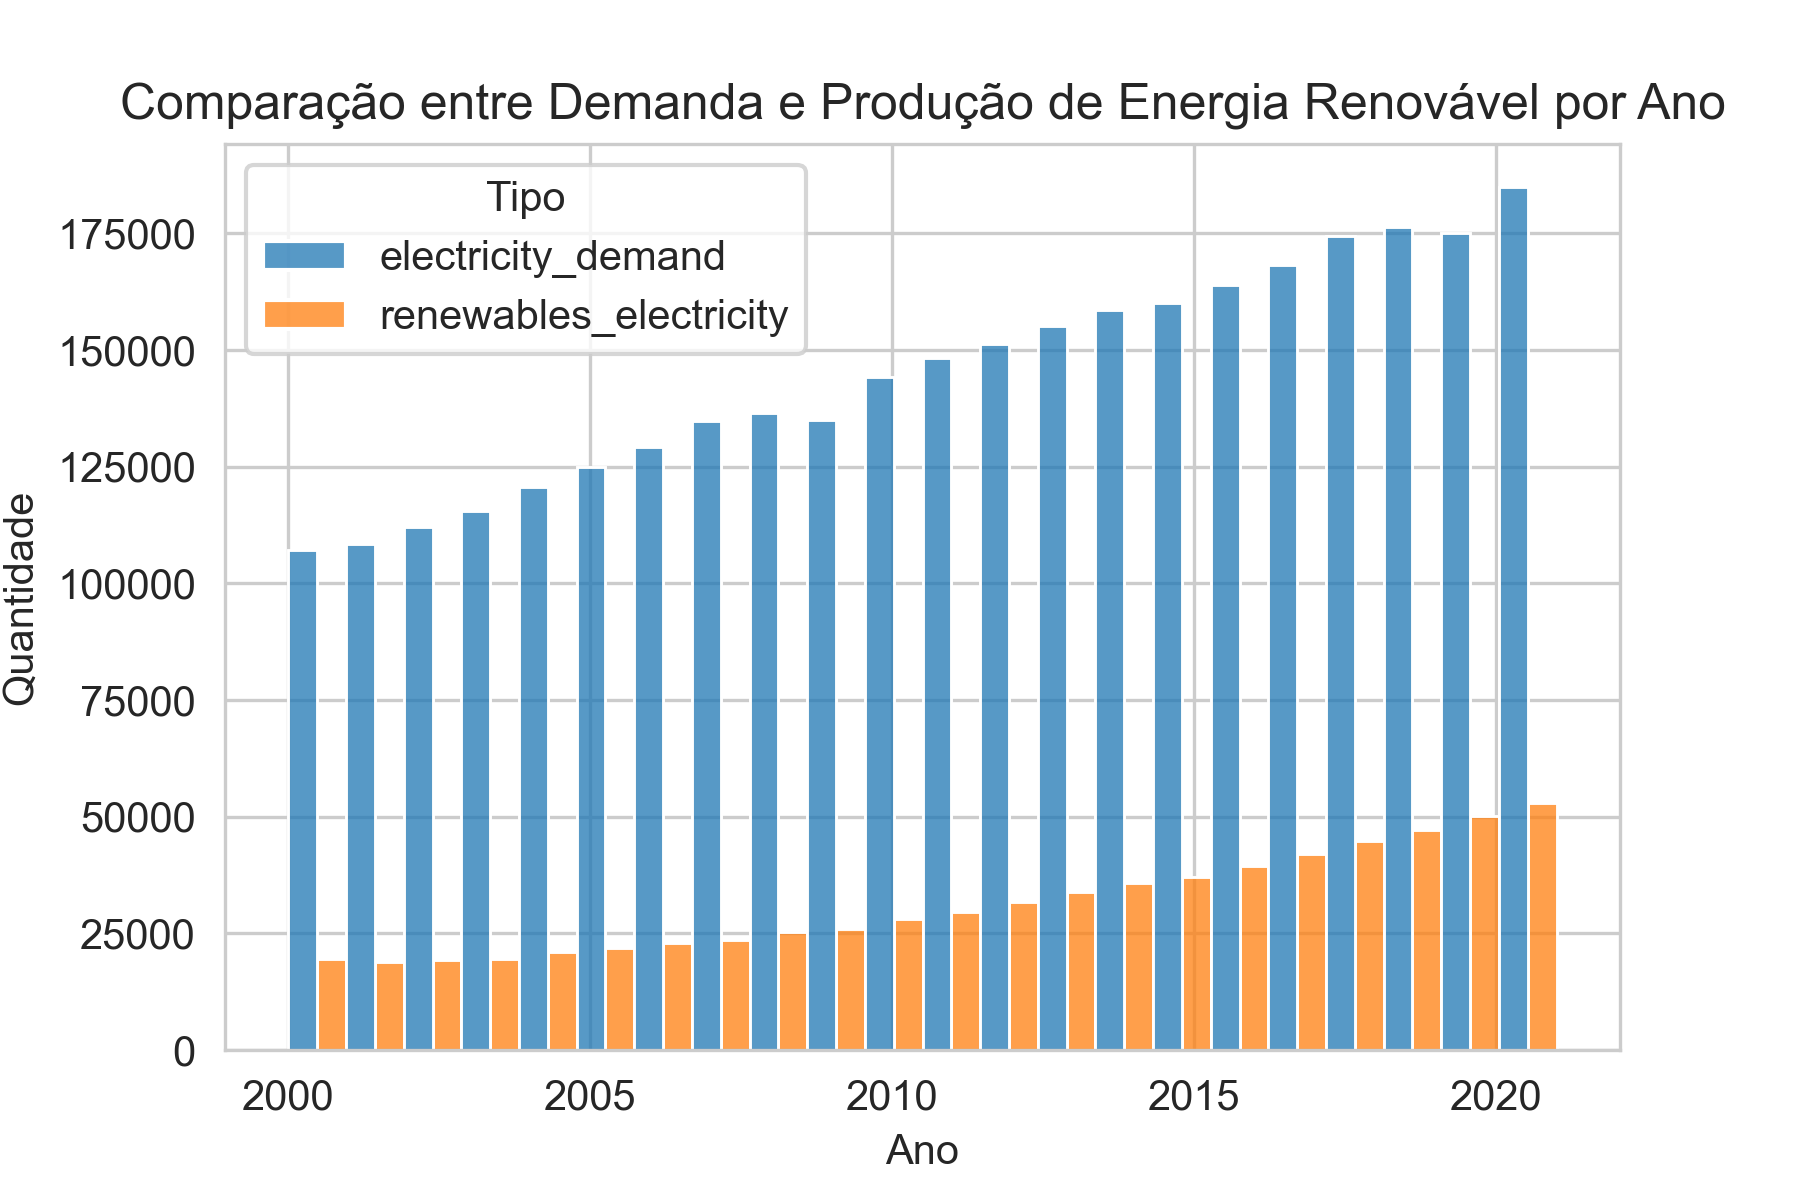
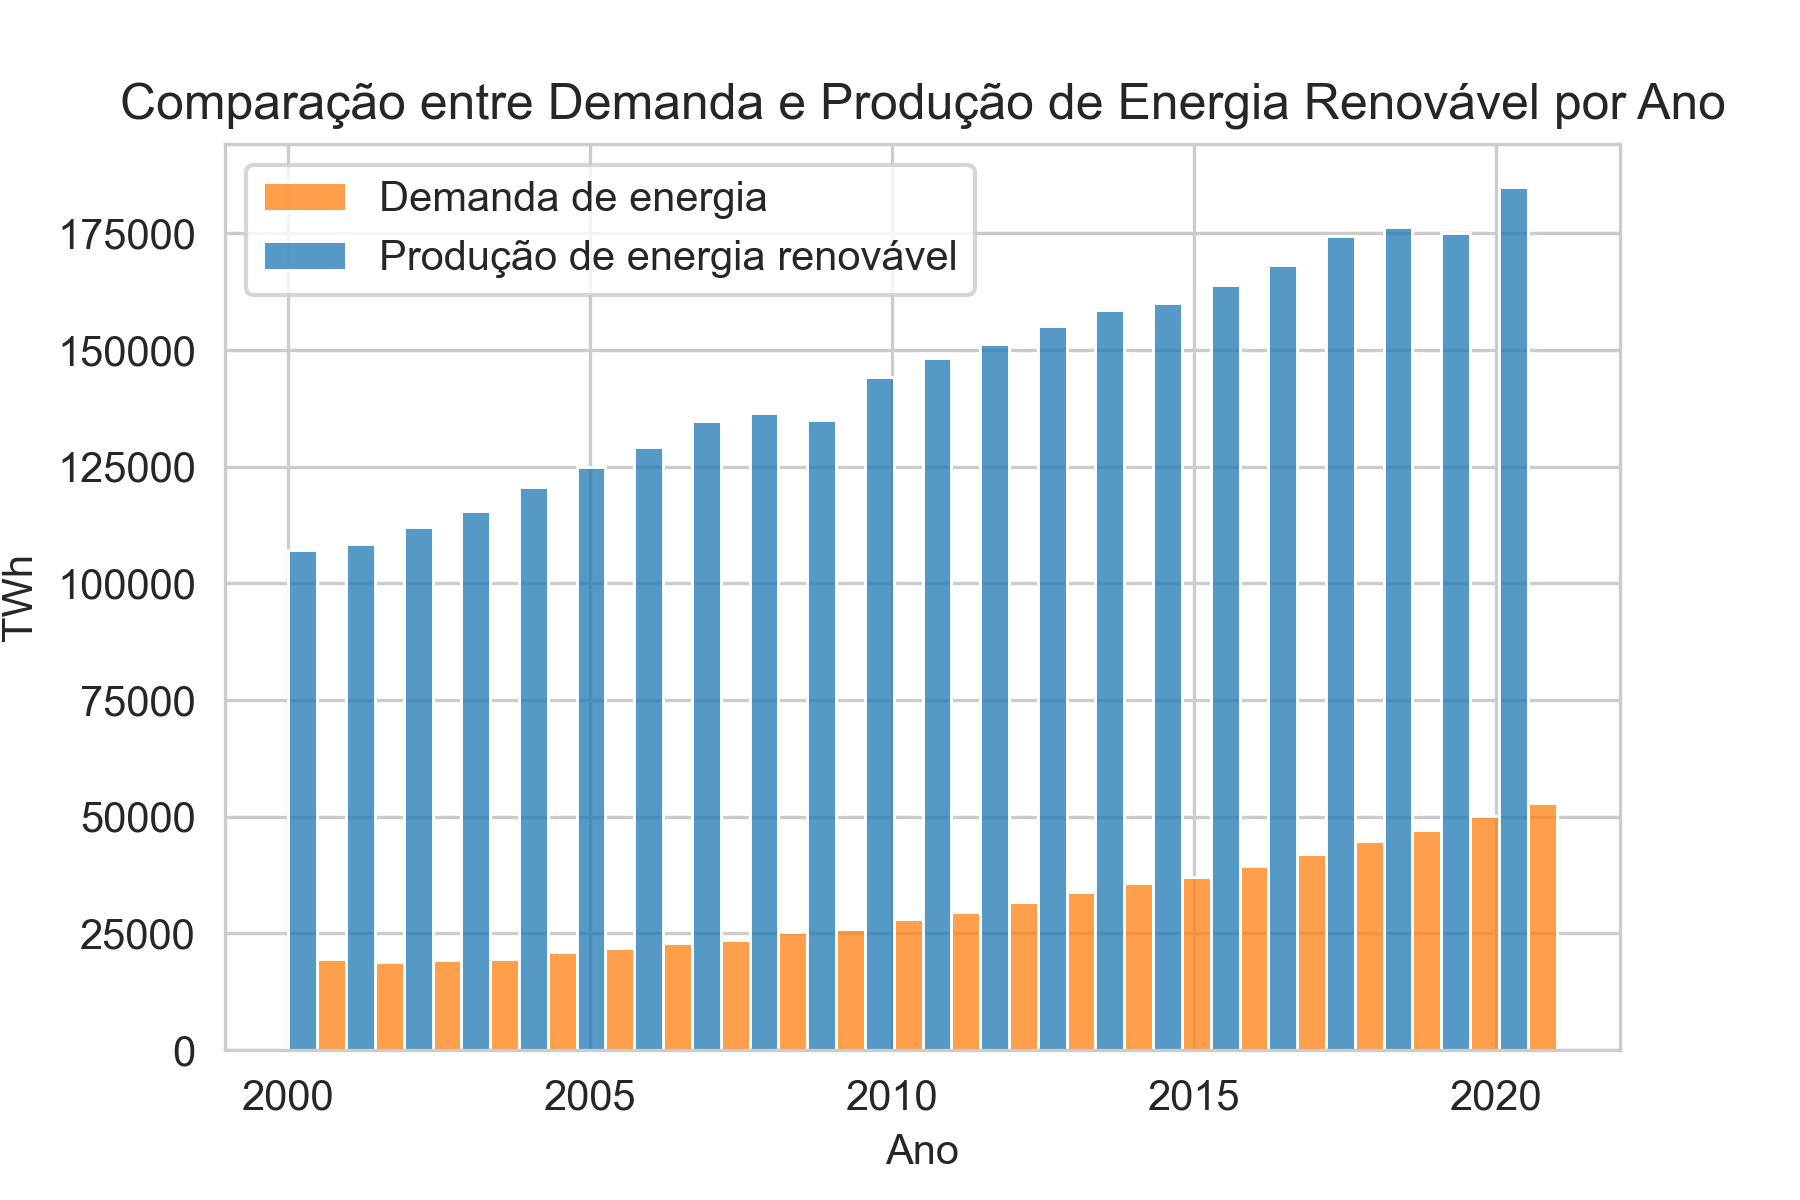
correção de um erro

Changed region(s): [[0.1244, 0.1542, 0.56, 0.3083], [0.0, 0.4008, 0.0311, 0.5858], [0.4356, 0.1233, 0.5289, 0.1542]]

diff --git a/src/demand_production_analysis.py b/src/demand_production_analysis.py
@@ -24,7 +24,8 @@ def plot_comparison_demand_production(df):
     sns.histplot(data=df_demand_production, x='year', hue='Tipo', weights='Valor', multiple='dodge', bins=22)
     plt.title('Comparação entre Demanda e Produção de Energia Renovável por Ano')
     plt.xlabel('Ano')
-    plt.ylabel('Quantidade')
+    plt.ylabel('TWh')
+    plt.legend(labels=['Demanda de energia', 'Produção de energia renovável'])
     
     # Salvar gráfico
     plt.savefig('../plots/demand_production.png', dpi=300, format='png')
@@ -51,7 +52,7 @@ def plot_variation_demand_production(df):
     # Salvar gráfico
     plt.savefig('../plots/variation_demand_production.png', dpi=300, format='png')
 
-
+plot_variation_demand_production(df)
 
 
 
